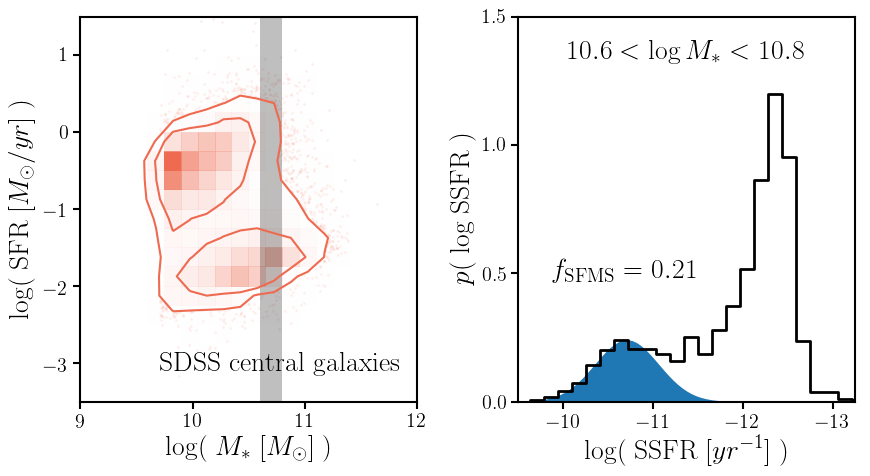
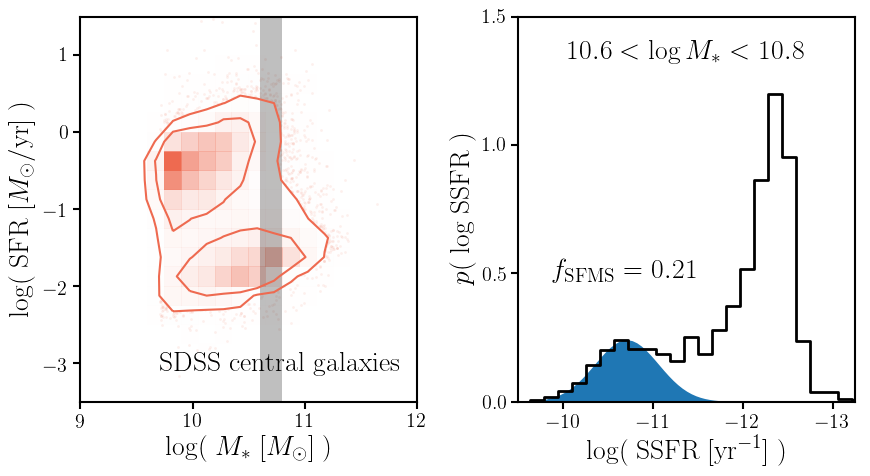
some more figures

Changed region(s): [[0.6517, 0.9118, 0.931, 0.9706], [0.0, 0.2059, 0.0621, 0.4412], [0.0, 0.4706, 0.0621, 0.6765]]

diff --git a/centralms/paper.py b/centralms/paper.py
@@ -16,7 +16,6 @@ import abcee as ABC
 import catalog as Cat
 import observables as Obvs
 
-from ChangTools.plotting import prettyplot
 from ChangTools.plotting import prettycolors
 import matplotlib as mpl 
 import matplotlib.pyplot as plt 
@@ -30,9 +29,10 @@ mpl.rcParams['xtick.major.width'] = 1.5
 mpl.rcParams['ytick.labelsize'] = 'x-large'
 mpl.rcParams['ytick.major.size'] = 5
 mpl.rcParams['ytick.major.width'] = 1.5
+mpl.rcParams['legend.frameon'] = False
 
 
-def groupcatSFMS(mrange=[10.2,10.4]): 
+def groupcatSFMS(mrange=[10.6,10.8]): 
     '''Figure of the z~0 group catalog. 
     Panel a) SFR-M* relation 
     Panel b) P(SSFR) with SFMS fitting 
@@ -60,7 +60,7 @@ def groupcatSFMS(mrange=[10.2,10.4]):
     sub1.set_xticks([9., 10., 11., 12.])
     sub1.set_xlabel('log$(\; M_*\; [M_\odot]\;)$', fontsize=20)
     sub1.set_yticks([-3., -2., -1., 0., 1.])
-    sub1.set_ylabel('log$(\; \mathrm{SFR}\; [M_\odot/yr]\;)$', fontsize=20)
+    sub1.set_ylabel('log$(\; \mathrm{SFR}\; [M_\odot/\mathrm{yr}]\;)$', fontsize=20)
     sub1.text(0.95, 0.1, 'SDSS central galaxies',
             ha='right', va='center', transform=sub1.transAxes, fontsize=20)
 
@@ -81,7 +81,7 @@ def groupcatSFMS(mrange=[10.2,10.4]):
 
     sub2.set_xlim([-9.5, -13.25]) 
     sub2.set_xticks([-10., -11., -12., -13.])
-    sub2.set_xlabel('log$(\; \mathrm{SSFR}\; [yr^{-1}]\;)$', fontsize=20)
+    sub2.set_xlabel('log$(\; \mathrm{SSFR}\; [\mathrm{yr}^{-1}]\;)$', fontsize=20)
     sub2.set_ylim([0., 1.5]) 
     sub2.set_yticks([0., 0.5, 1., 1.5])
     sub2.set_ylabel('$p(\;\mathrm{log}\; \mathrm{SSFR}\;)$', fontsize=20)
@@ -96,17 +96,66 @@ def groupcatSFMS(mrange=[10.2,10.4]):
     return None
 
 
+def fQ_fSFMS(): 
+    ''' Figure comparing the quiescent fraction based on "traditional" SFMS cut 
+    to the SFMS fraction. 
+    '''
+    # Read in Jeremy's group catalog  with Mr_cut = -18
+    gc = Cat.Observations('group_catalog', Mrcut=18, position='central')
+    gc_cat = gc.Read() 
+
+    # fit the SFMS using lettalkaboutquench sfms fitting
+    fSFMS = fstarforms() 
+    fit_logm, fit_logsfr = fSFMS.fit(gc_cat['mass'], gc_cat['sfr'], method='gaussmix')
+    _, fit_fsfms = fSFMS.frac_SFMS()
+
+    # now fit a fSFMS(M*) 
+    coeff = np.polyfit(fit_logm, fit_fsfms, 1)
+    print coeff
+
+    # output f_SFMS to data (for posterity)
+    f = open(''.join([UT.tex_dir(), 'dat/fsfms.dat']), 'w') 
+    f.write('### header ### \n') 
+    f.write('star-formation main sequence (SFMS) fraction: fraction of galaxies \n') 
+    f.write('within a log-normal fit of the SFMS. See paper for details.\n') 
+    f.write('columns: log M*, f_SFMS\n') 
+    f.write('### header ### \n') 
+    for i_m in range(len(fit_logm)): 
+        f.write('%f \t %f' % (fit_logm[i_m], fit_fsfms[i_m]))
+    f.close() 
+    
+    # best-fit quiescent fraction from Hahn et al. (2017) 
+    f_Q_cen = lambda mm: -6.04 + 0.64 * mm 
+    
+    pretty_colors = prettycolors()  
+    fig = plt.figure(figsize=(5,5)) 
+    sub = fig.add_subplot(111)
+    sub.scatter(fit_logm, 1. - fit_fsfms, lw=0) 
+    marr = np.linspace(9., 12., 100) 
+    sub.plot(marr, f_Q_cen(marr), c=pretty_colors[3], lw=2,
+            label='Hahn et al.(2017)\n $f_\mathrm{Q}^\mathrm{cen}(M_*, z\sim0)$')
+    sub.set_xlim([9., 11.5])
+    sub.set_xticks([9., 10., 11.])
+    sub.set_xlabel('log$(\; M_*\; [M_\odot]\;)$', fontsize=25)
+    sub.set_ylim([0., 1.])
+    sub.set_ylabel('$1 - f_\mathrm{SFMS}$', fontsize=25)
+    sub.legend(loc='upper left', prop={'size': 15})
+    fig.savefig(''.join([UT.tex_dir(), 'figs/fq_fsfms.png']), bbox_inches='tight') 
+    plt.close()
+    return None
+
+
 def SFHmodel(nsnap0=15):
     ''' Figure that illustrates the SFH of galaxies. 
     Two panel plot. Panel a) SFH of a galaxy plotted alongside SFMS 
     '''
-    prettyplot() 
     pretty_colors = prettycolors()  
-    fig = plt.figure(figsize=(15,7))
+    fig = plt.figure(figsize=(10,5))
     # log SFR - log M* galaxy evolution 
     sub1 = fig.add_subplot(121)
     # Delta log SFR(t) evolution 
     sub2 = fig.add_subplot(122)
+    sub2.fill_between([5., 14.], [0.3, 0.3], [-0.3, -0.3], color='k', alpha=0.15, linewidth=0)
     
     for i_m, method in enumerate(['randomSFH', 'randomSFH_long']): 
         subcat, eev = ABC.model(method, np.array([1.35, 0.6]), nsnap0=nsnap0, 
@@ -161,13 +210,15 @@ def SFHmodel(nsnap0=15):
                 c=pretty_colors[2*i_m+1])
         # plot SFMS(M*, z)
         m_arr = np.linspace(9., 12., 100)
-        for z in np.arange(0.1, 1.25, 0.25): 
+        zs = np.arange(0., 1.2, 0.25)
+        zs[0] = 0.05
+        for z in zs: 
             sub1.plot(m_arr, Obvs.SSFR_SFMS(m_arr, z, theta_SFMS=subcat['theta_sfms']) + m_arr,
                     c='k', ls=':', lw=0.75)
-            sub1.text(10.05, Obvs.SSFR_SFMS(10.05, z, theta_SFMS=subcat['theta_sfms'])+10.12, 
-                    '$\mathtt{z = '+str(z)+'}$', 
-                    rotation=0.4*np.arctan(subcat['theta_sfms']['mslope'])*180./np.pi, 
-                    fontsize=12)
+            sub1.text(10.05, Obvs.SSFR_SFMS(10.05, z, theta_SFMS=subcat['theta_sfms'])+10.05, 
+                    '$z = '+str(z)+'$', 
+                    rotation=0.5*np.arctan(subcat['theta_sfms']['mslope'])*180./np.pi, 
+                    fontsize=12, va='bottom')
         
         xx, yy = [], []
         for i in range(len(eev.dlogSFR_amp[i_random][0])-1):
@@ -177,23 +228,33 @@ def SFHmodel(nsnap0=15):
             yy.append(eev.dlogSFR_amp[i_random][0][i])
         if i_m == 0: 
             sub2.plot([UT.t_nsnap(nsnap0), UT.t_nsnap(1)], [0.,0.], ls='--', c='k')
-        sub2.plot(xx, yy, c=pretty_colors[2*i_m+1])
+        if method == 'randomSFH': 
+            lbl = '$t_\mathrm{duty} = 0.5\,\mathrm{Gyr}$'
+        elif method == 'randomSFH_long':
+            lbl = '$t_\mathrm{duty} = 5\,\mathrm{Gyr}$'
+            
+        sub2.plot(xx, yy, c=pretty_colors[2*i_m+1], label=lbl)
 
     sub1.set_xlim([10., 11.])
-    sub1.set_xlabel('$\mathtt{log(\; M_*\; [M_\odot]\;)}$', fontsize=25)
+    sub1.set_xticks([10., 10.5, 11.])
+    sub1.set_xlabel('log $(\; M_*\; [M_\odot]\;)$', fontsize=25)
     sub1.set_ylim([-1., 1.5])
-    sub1.set_ylabel('$\mathtt{log(\; SFR\; [M_\odot/yr]\;)}$', fontsize=25)
+    sub1.set_ylabel('log $(\; \mathrm{SFR}\; [M_\odot/\mathrm{yr}]\;)$', fontsize=25)
 
     sub2.set_xlim([UT.t_nsnap(nsnap0), UT.t_nsnap(1)]) 
-    sub2.set_xlabel('$\mathtt{t_{cosmic}\;[Gyr]}$', fontsize=25)
+    sub2.set_xlabel('$t_\mathrm{cosmic}\;[\mathrm{Gyr}]$', fontsize=25)
     sub2.set_ylim([-1., 1.]) 
     sub2.set_yticks([-1., -0.5, 0., 0.5, 1.])
-    sub2.set_ylabel('$\Delta \mathtt{log(\;SFR\;[M_\odot/yr])}$', fontsize=25)
-    sub2.yaxis.tick_right()
-    sub2.yaxis.set_label_position("right")
+    sub2.set_ylabel('$\Delta$ log $(\;\mathrm{SFR}\;[M_\odot/\mathrm{yr}])$', fontsize=25)
+    sub2.legend(loc='lower right', prop={'size':15})
+    #sub2.yaxis.tick_right()
+    #sub2.yaxis.set_label_position("right")
+    fig.subplots_adjust(wspace=0.4)
     fig.savefig(''.join([UT.tex_dir(), 'figs/sfh_pedagogical.png']), bbox_inches='tight') 
     return None 
 
 
 if __name__=="__main__": 
-    groupcatSFMS(mrange=[10.6, 10.8])
+    #groupcatSFMS(mrange=[10.6,10.8])
+    fQ_fSFMS()
+    #SFHmodel(nsnap0=15)

diff --git a/tex/main.tex b/tex/main.tex
@@ -94,17 +94,16 @@ In this section we describe how we
 \subsection{Selecting $z \sim 0$ Star Forming Central Galaxies}  
 
 \begin{itemize}
-    \item Multi-panel figure of the group catalog SFMS, mass bin fit of SFMS 
-    \item Describe how $f_{SFMS}$ is calculated. 
-    \item refer to Tjitske in prep 
+    \item Describe how $f_{SFMS}$ is calculated. Reference to Tjitske in prep 
+    \item Figure of $f_{Q}$ vs $f_{SFMS}$ to illustrate/sanity-check $f_{SFMS}$ 
     \item Then explain how it's not circular because the integrated $M_*$ has to reproduce the same SMF
 \end{itemize}
 
 \subsection{Evolving along the Main Sequence} 
-\begin{itemize}
+\bitem
     \item Talk about the SFR and $M_*$ prescriptions 
     \item Pedagogical figure describing the SFH model: two panel one SFR as a function of time, the other residual log SFR as a funciton of time for different prescriptions
-\end{itemize}
+\eitem
 
 \section{The duty cycle of star formation}
 \bitem
